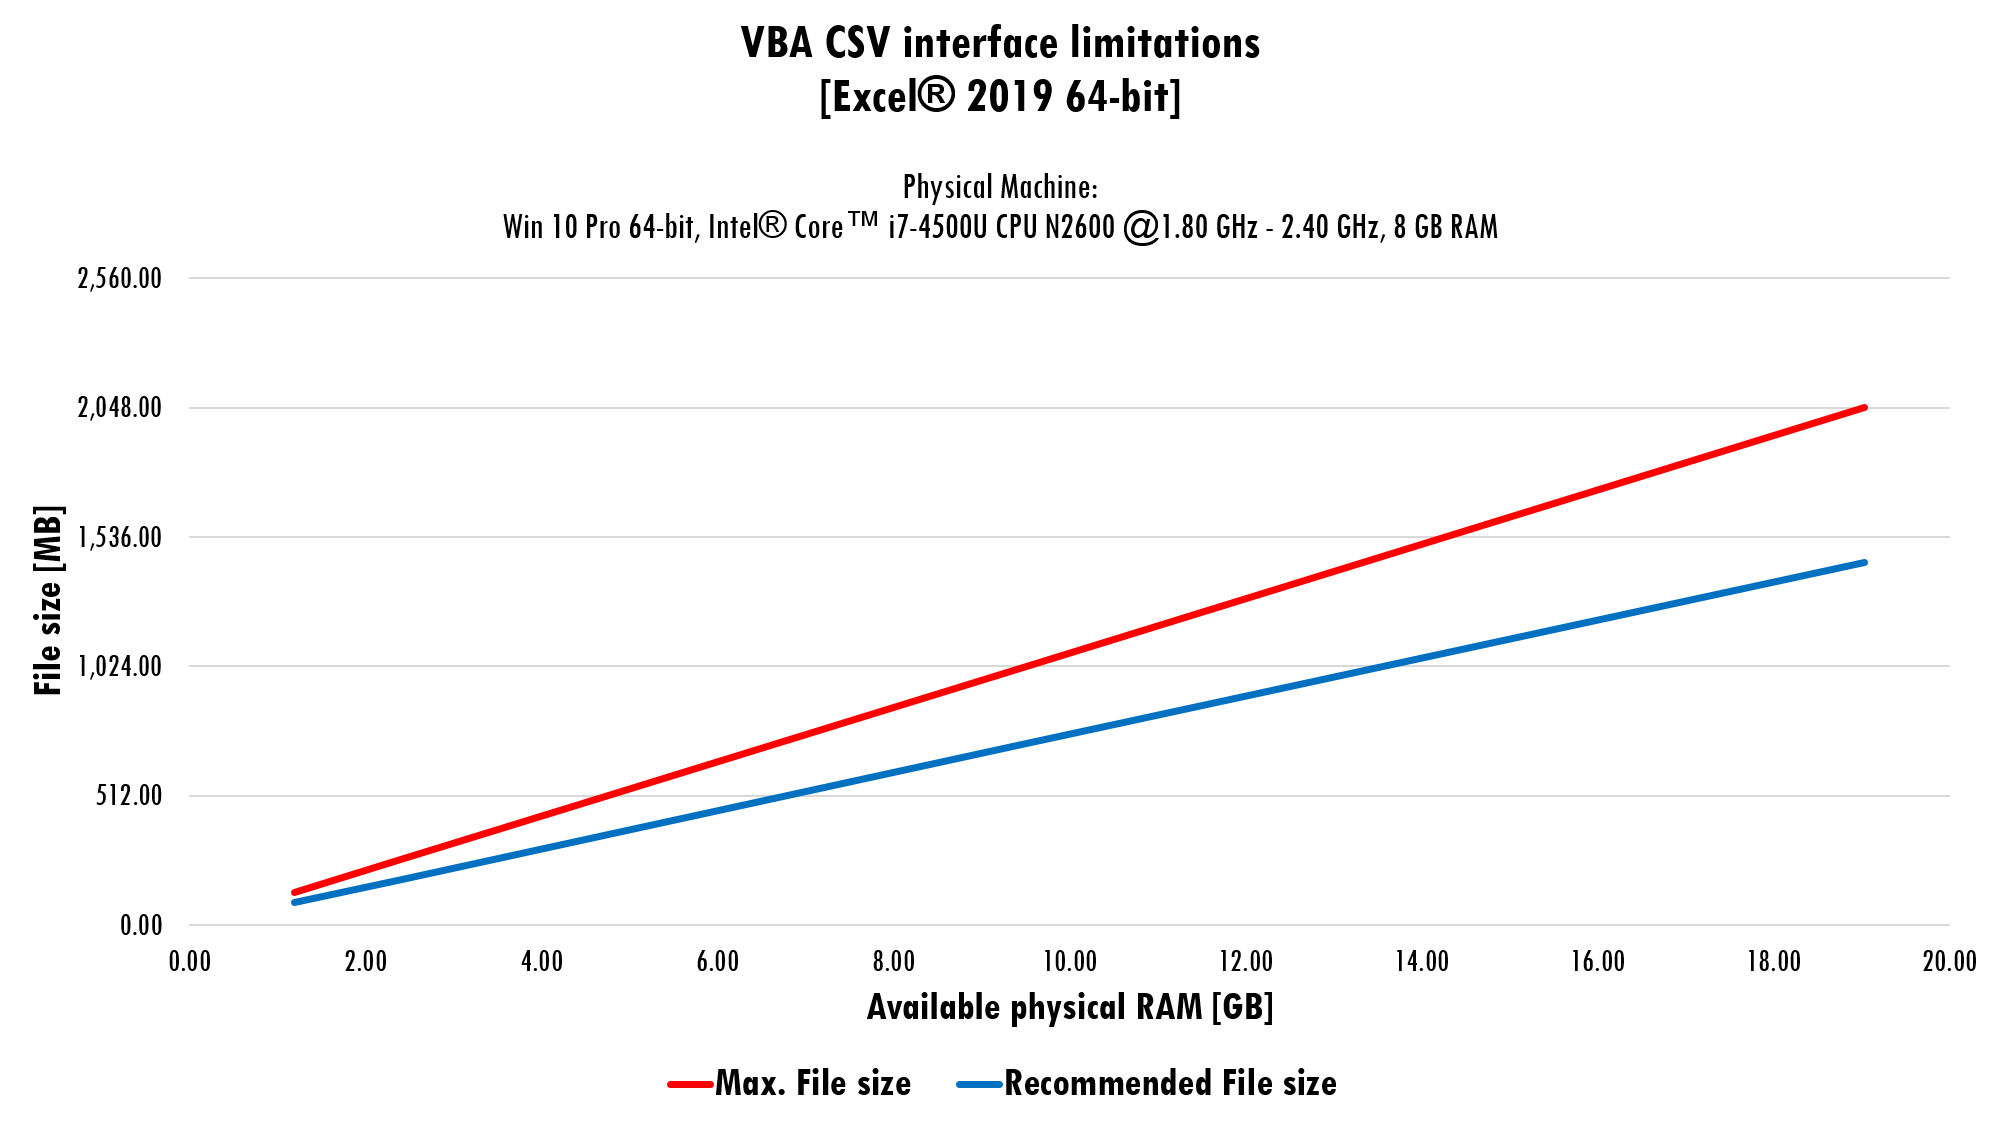
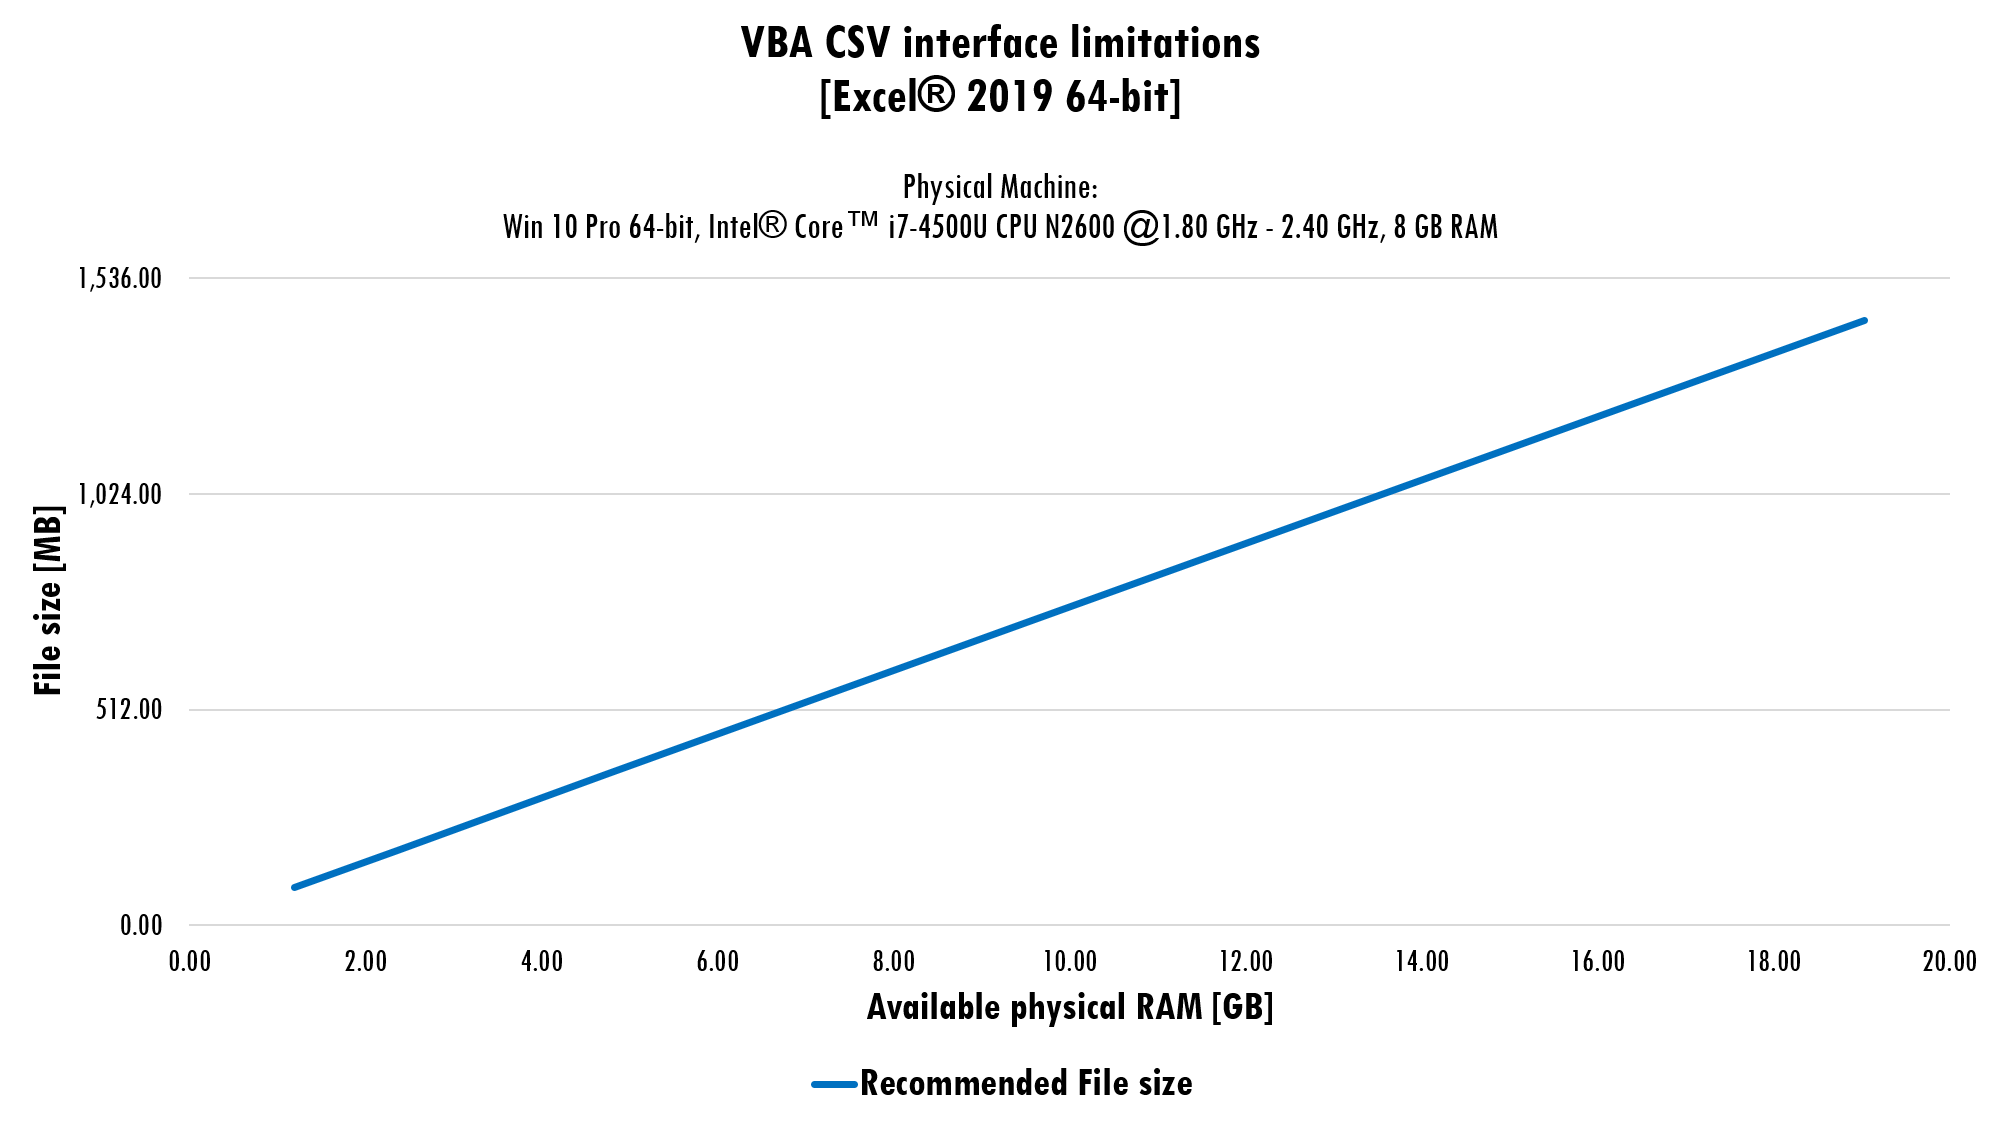
Docs update

diff --git a/docs/limitations/csv_file_size.md b/docs/limitations/csv_file_size.md
@@ -55,11 +55,11 @@ The above experimental results make smooth to arrive to the following conclusion
 * VBA-CSV interface is suitable to almost any Microsoft Office Excel user. It can handle considerably large CSV files without any problem.
 * As the size of the CSV increases, VBA-CSV interface has a performance drop.
 * With each available GB of RAM, on the test machine, VBA-CSV interface can parse CSV files sized up to 107.61 MB.
-* VBA-CSV interface can work at high performance with files sized to almost \[75.45 * Available RAM\]  (results in MB).
+* VBA-CSV interface is supposed to work at high performance with files sized to almost \[75.45 * Available RAM\]  (results in MB).
 
 >⚠**Caution**
 >{: .text-grey-lt-000 .bg-green-000 }
 >The formulation presented here is experimental and can be wrong due the assumptions involved. There is a real chance to experiment unexpected behavior. User need to remember that parse a 2 GB sized CSV file can require up to 20 GB of Available RAM.
 >
->The target CSV can't have size greater than 2GB. This because VBA-CSV interface use `LONG` datatype when parsing. So, if you want to process files larger than 2GB, you'll need to use another solution instead.
+>In theory, the target CSV can't have size greater than 2GB but in practice this value can be 1.5 GB. This because VBA-CSV interface use `LONG` datatype when parsing and due the VBA language is not really good when manages RAM.. So, if you want to process files larger than 1.5GB, you'll need to use another solution instead.
 {: .text-grey-dk-300 .bg-yellow-000 }
